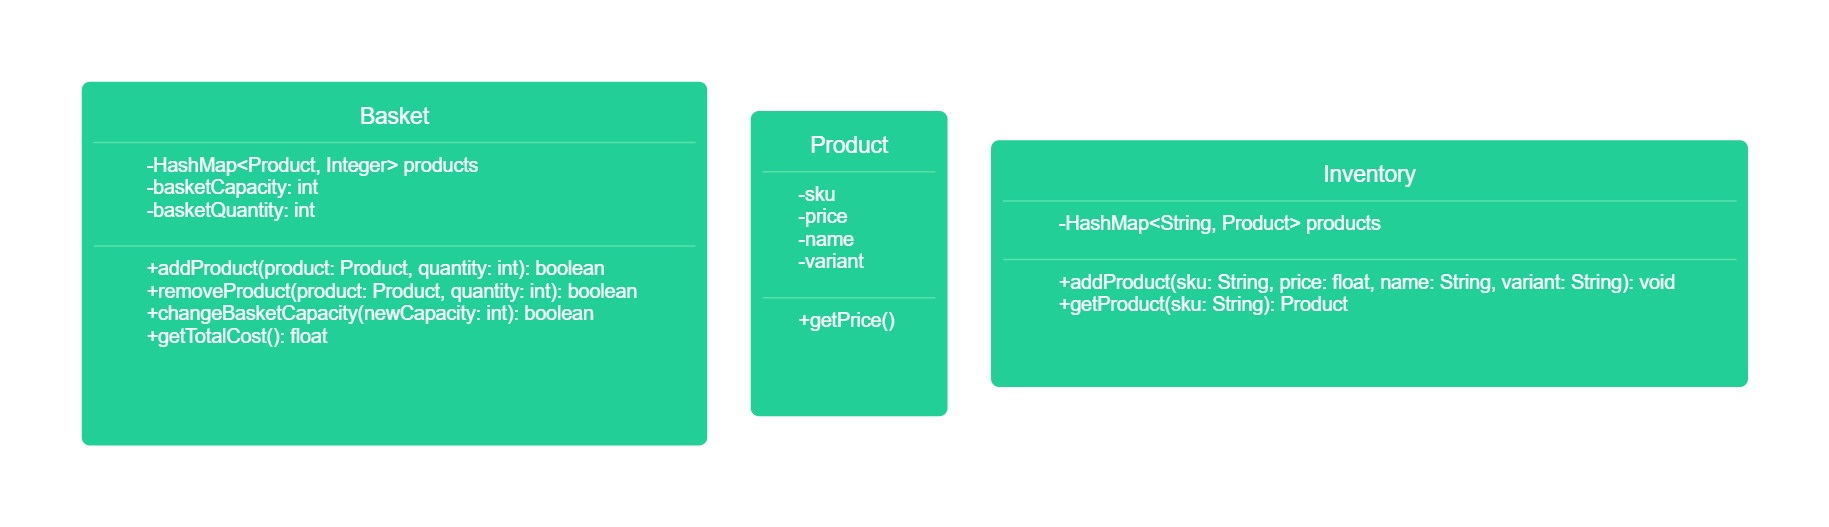
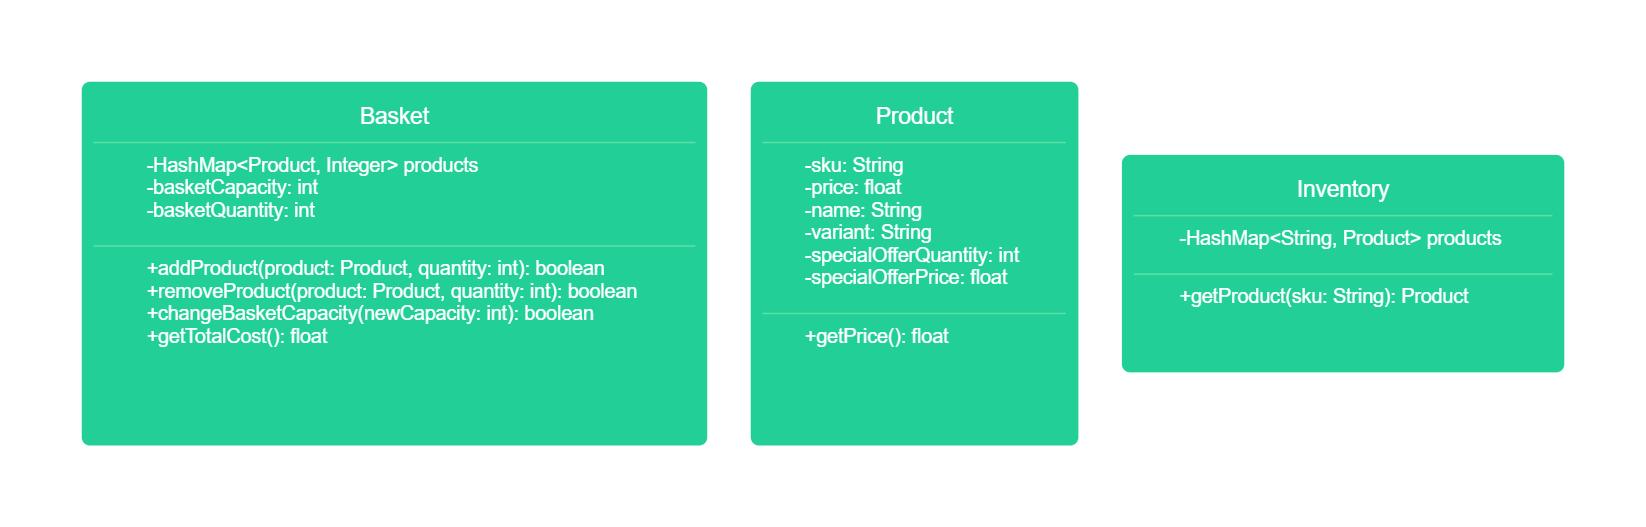
class diagram and domain model updated

Changed region(s): [[0.031, 0.1518, 0.9605, 0.8501], [0.1859, 0.1822, 0.2789, 0.2429]]

diff --git a/domain-model.md b/domain-model.md
@@ -11,15 +11,16 @@
 |          |                                      |                                                | new capacity is not valid                          | false   |
 |          |                                      | `getTotalCost()`                               | returns total cost                                 | float   |
 
-| Class     | Members   | Methods       | Scenario                | Outputs |
-|-----------|-----------|---------------|-------------------------|---------|
-| `Product` | `sku`     | `getPrice()`  | returns product's price | float   |
-|           | `price`   |               |                         |         |
-|           | `name`    |               |                         |         |
-|           | `variant` |               |                         |         |
+| Class     | Members                | Methods       | Scenario                | Outputs |
+|-----------|------------------------|---------------|-------------------------|---------|
+| `Product` | `sku`                  | `getPrice()`  | returns product's price | float   |
+|           | `price`                |               |                         |         |
+|           | `name`                 |               |                         |         |
+|           | `variant`              |               |                         |         |
+|           | `specialOfferQuantity` |               |                         |         |
+|           | `specialOfferPrice`    |               |                         |         |
 
-| Class       | Members                             | Methods                                                                        | Scenario                                 | Outputs |
-|-------------|-------------------------------------|--------------------------------------------------------------------------------|------------------------------------------|---------|
-| `Inventory` | `HashMap<String, Product> products` | `public void addProduct(String sku, float price, String name, String variant)` | adds product to inventory                | void    |
-|             |                                     | `getProduct(String sku)`                                                       | returns specific product from inventory  | Product |
+| Class       | Members                             | Methods                   | Scenario                                   | Outputs  |
+|-------------|-------------------------------------|---------------------------|--------------------------------------------|----------|
+| `Inventory` | `HashMap<String, Product> products` | `getProduct(String sku)`  | returns specific product from inventory    | Product  |
 
